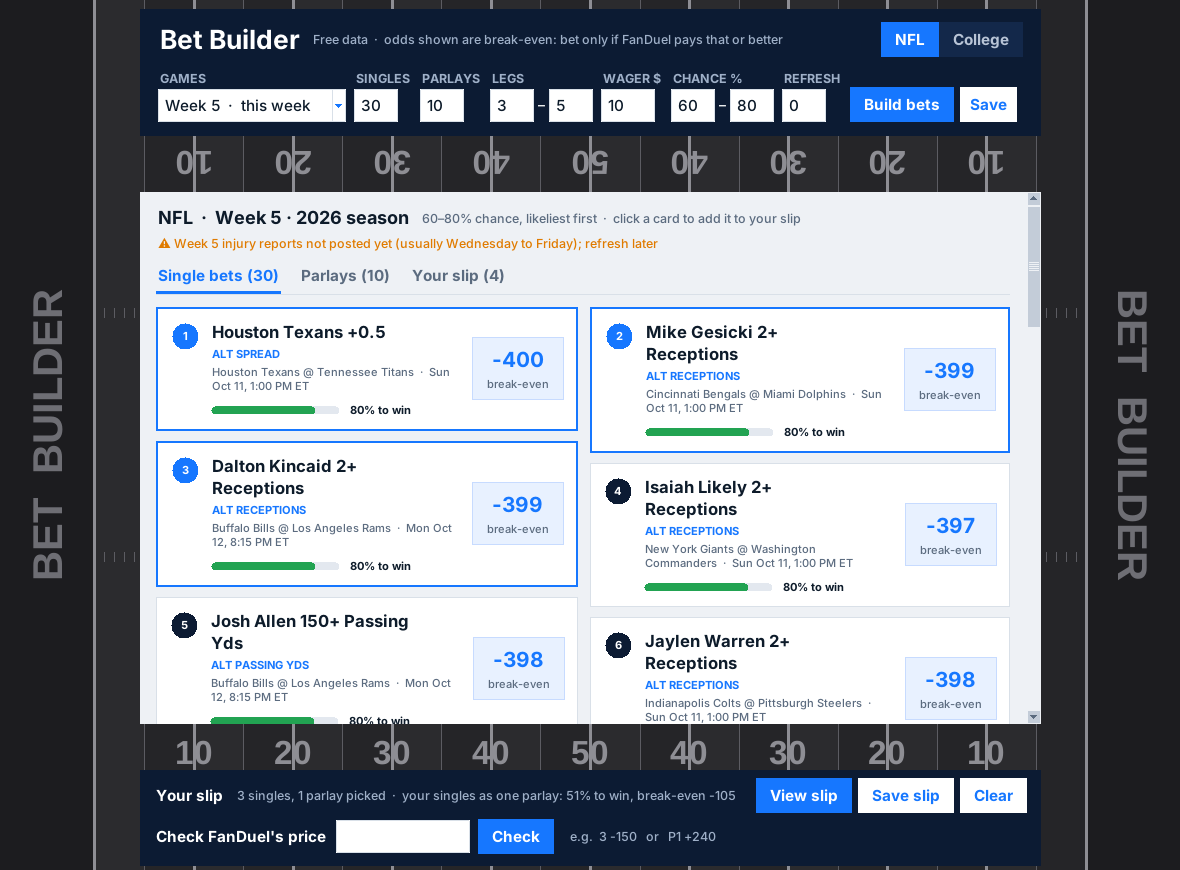
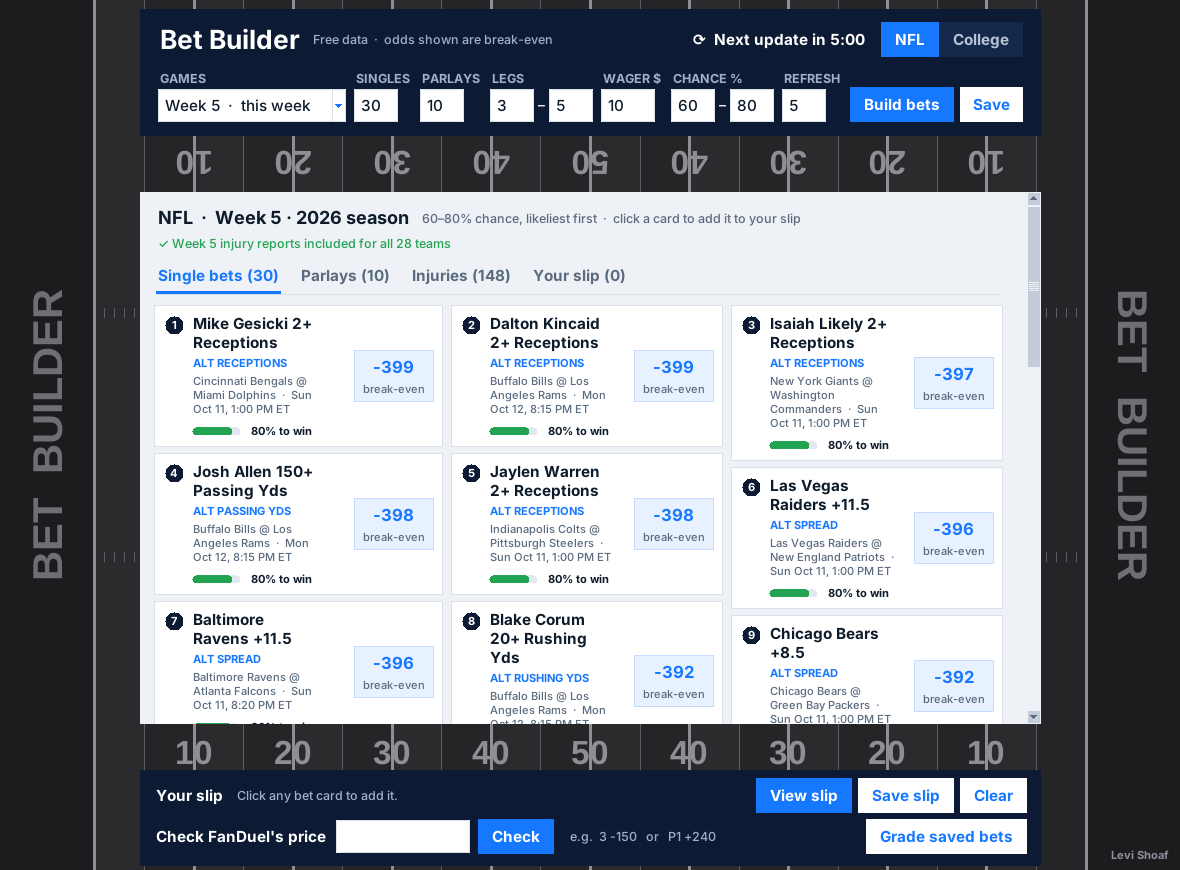
Smaller bet cards: three across in the app, four across on the web page
Claude-Session: https://claude.ai/code/session_01FzCvELGmhGBdoQHEqCEwdE

diff --git a/web/template.html b/web/template.html
@@ -68,33 +68,33 @@ main { padding-block: 18px; display: grid; gap: 14px; }
 .watermark { position: absolute; top: 4px; right: 10px; font-size: 11px; font-weight: 600; letter-spacing: .06em; text-transform: uppercase; color: var(--mark); pointer-events: none; user-select: none; }
 .notice { background: rgba(12, 27, 51, .85); border: 1px solid #2a4170; border-radius: 10px; padding: 10px 14px; color: var(--on-dark); font-size: 14px; }
 .notice strong { color: #fff; }
-.grid { display: grid; grid-template-columns: repeat(auto-fill, minmax(300px, 1fr)); gap: 12px; }
+.grid { display: grid; grid-template-columns: repeat(auto-fill, minmax(230px, 1fr)); gap: 8px; }
 
-.card { background: var(--card); color: var(--ink); border-radius: 12px; padding: 14px; display: grid; gap: 10px; cursor: pointer; border: 2px solid transparent; text-align: left; width: 100%; min-width: 0; }
+.card { background: var(--card); color: var(--ink); border-radius: 10px; padding: 9px 10px; display: grid; gap: 6px; cursor: pointer; border: 2px solid transparent; text-align: left; width: 100%; min-width: 0; }
 .card:hover { border-color: #bcd4ff; }
 .card.on { border-color: var(--blue); box-shadow: 0 0 0 3px rgba(22, 119, 255, .25); }
-.row { display: flex; align-items: flex-start; gap: 10px; }
+.row { display: flex; align-items: flex-start; gap: 8px; }
 .grow { flex: 1; min-width: 0; }
-.rank { font-family: var(--display); font-weight: 700; color: var(--ink-2); font-size: 15px; }
-.mkt { font-size: 11px; font-weight: 700; letter-spacing: .08em; text-transform: uppercase; color: var(--ink-2); }
-.pick { font-weight: 700; font-size: 16px; line-height: 1.25; overflow-wrap: anywhere; }
-.game { color: var(--ink-2); font-size: 13px; overflow-wrap: anywhere; }
-.odds { flex: none; background: var(--blue-soft); color: var(--blue); border-radius: 8px; padding: 6px 10px; text-align: center; min-width: 74px; }
-.odds b { display: block; font-family: var(--display); font-size: 20px; line-height: 1.1; }
-.odds small { font-size: 10px; font-weight: 600; letter-spacing: .05em; text-transform: uppercase; }
+.rank { font-family: var(--display); font-weight: 700; color: var(--ink-2); font-size: 13px; }
+.mkt { font-size: 10px; font-weight: 700; letter-spacing: .08em; text-transform: uppercase; color: var(--ink-2); }
+.pick { font-weight: 700; font-size: 14px; line-height: 1.2; overflow-wrap: anywhere; }
+.game { color: var(--ink-2); font-size: 11.5px; overflow-wrap: anywhere; }
+.odds { flex: none; background: var(--blue-soft); color: var(--blue); border-radius: 7px; padding: 3px 7px; text-align: center; min-width: 58px; }
+.odds b { display: block; font-family: var(--display); font-size: 16px; line-height: 1.1; }
+.odds small { font-size: 9px; font-weight: 600; letter-spacing: .05em; text-transform: uppercase; }
 .card.on .odds { background: var(--blue); color: #fff; }
 .meter { display: flex; align-items: center; gap: 10px; }
-.track { flex: 1; height: 6px; background: var(--line); border-radius: 3px; overflow: hidden; }
+.track { flex: 1; height: 5px; background: var(--line); border-radius: 3px; overflow: hidden; }
 .fill { height: 100%; border-radius: 3px; }
-.pct { font-family: var(--display); font-weight: 800; font-size: 20px; min-width: 46px; text-align: right; }
-.stats { display: grid; grid-template-columns: repeat(3, 1fr); gap: 6px; border-top: 1px solid var(--line); padding-top: 8px; font-size: 12px; color: var(--ink-2); }
-.stats b { display: block; color: var(--ink); font-size: 14px; }
+.pct { font-family: var(--display); font-weight: 800; font-size: 15px; min-width: 36px; text-align: right; }
+.stats { display: grid; grid-template-columns: repeat(3, 1fr); gap: 4px; border-top: 1px solid var(--line); padding-top: 5px; font-size: 10.5px; color: var(--ink-2); }
+.stats b { display: block; color: var(--ink); font-size: 12px; }
 .badge { display: inline-block; font-size: 11px; font-weight: 700; padding: 1px 7px; border-radius: 999px; margin-left: 6px; vertical-align: 2px; }
 .b-q { background: var(--warn-soft); color: var(--warn); }
 .b-dnp { background: var(--bad-soft); color: var(--bad); }
-.legs { display: grid; gap: 8px; margin: 0; padding: 0; list-style: none; }
-.legs li { display: flex; gap: 10px; align-items: baseline; border-left: 3px solid var(--line); padding-left: 10px; }
-.legs .lp { font-weight: 700; font-size: 13px; min-width: 36px; color: var(--ink-2); }
+.legs { display: grid; gap: 5px; margin: 0; padding: 0; list-style: none; }
+.legs li { display: flex; gap: 8px; align-items: baseline; border-left: 3px solid var(--line); padding-left: 8px; }
+.legs .lp { font-weight: 700; font-size: 12px; min-width: 30px; color: var(--ink-2); }
 
 .empty { color: var(--on-dark-2); padding: 18px; border: 1px dashed #555; border-radius: 10px; }
 
@@ -118,7 +118,7 @@ main { padding-block: 18px; display: grid; gap: 14px; }
 .official { font-size: 11px; color: var(--good); font-weight: 700; }
 
 .slip { display: grid; gap: 10px; }
-.slip-item { background: var(--card); color: var(--ink); border-radius: 12px; padding: 12px 14px; display: grid; gap: 8px; }
+.slip-item { background: var(--card); color: var(--ink); border-radius: 10px; padding: 9px 12px; display: grid; gap: 6px; }
 .check { display: flex; flex-wrap: wrap; gap: 8px; align-items: center; font-size: 13px; color: var(--ink-2); }
 .check input { width: 90px; border: 1px solid var(--line); border-radius: 6px; padding: 5px 8px; color: var(--ink); background: #fff; }
 .verdict { font-weight: 700; }
@@ -219,8 +219,8 @@ main { padding-block: 18px; display: grid; gap: 14px; }
     const w = wager();
     return `<div class="stats">
       <div>To win<b>${pct(prob)}</b></div>
-      <div>Payout on ${money(w)}*<b>${money(w / prob)}</b></div>
-      <div>Worth it at<b>${fmtAm(decToAm(1 / prob))} or better</b></div>
+      <div>Payout*<b>${money(w / prob)}</b></div>
+      <div>Worst odds<b>${fmtAm(decToAm(1 / prob))}</b></div>
     </div>`;
   }
   function meter(p) {
@@ -254,7 +254,7 @@ main { padding-block: 18px; display: grid; gap: 14px; }
         <div class="grow"><div class="mkt">Parlay ${i + 1} · ${p.legs.length} legs</div></div>
         <div class="odds"><b>${esc(p.breakeven)}</b><small>break-even</small></div>
       </div>
-      <ul class="legs">${p.legs.map((l) => `<li><span class="lp">${pct(l.prob)}</span><div class="grow"><div class="pick" style="font-size:14px">${esc(l.label)}${badge(l.note)}</div><div class="game">${esc(l.game)} · ${esc(l.when)}</div></div></li>`).join("")}</ul>
+      <ul class="legs">${p.legs.map((l) => `<li><span class="lp">${pct(l.prob)}</span><div class="grow"><div class="pick" style="font-size:12.5px">${esc(l.label)}${badge(l.note)}</div><div class="game">${esc(l.game)} · ${esc(l.when)}</div></div></li>`).join("")}</ul>
       ${meter(p.prob)}
       ${statRow(p.prob)}
     </button>`;
@@ -355,7 +355,7 @@ main { padding-block: 18px; display: grid; gap: 14px; }
     if (state.tab === "parlays") html += wk.parlays.length ? `<div class="grid">${wk.parlays.map(parlayCard).join("")}</div>` : `<div class="empty">Not enough games for a parlay this week.</div>`;
     if (state.tab === "injuries") html += injuriesView(wk);
     if (state.tab === "slip") html += slipView();
-    html += `<p class="foot">*Odds shown are break-even: the worst price still worth taking, from public consensus lines and game logs. They aren't FanDuel's prices, so expected value at these odds is zero. Type FanDuel's actual price into the slip to see the real expected value. Payouts include your stake. Parlay chances assume legs from different games are independent.</p>`;
+    html += `<p class="foot">*Odds shown are break-even: the worst price still worth taking, from public consensus lines and game logs. They aren't FanDuel's prices, so expected value at these odds is zero. Type FanDuel's actual price into the slip to see the real expected value. Payout is what your wager returns at break-even odds, stake included. Worst odds is the lowest price still worth taking. Parlay chances assume legs from different games are independent.</p>`;
     $("main").innerHTML = html;
 
     const c = combo();

diff --git a/bets_gui.py b/bets_gui.py
@@ -29,6 +29,7 @@ from nfl_edge.parlays import Parlay
 
 W, H = 1180, 870
 PANEL_W = W - 2 * W * 0.08 - 90  # leaves turf visible on both sides
+CARD_W = 272  # bet cards, three across
 NUMBER_ROWS = (163, 752)  # yard numbers sit in the gaps between panels
 
 # Field (charcoal)
@@ -124,7 +125,7 @@ def bar(parent, p: float, bg: str, width: int, font) -> tk.Frame:
 
 def odds_button(parent, text: str, caption: str, f_big, f_small, bg=BLUE_SOFT) -> tk.Frame:
     """A sportsbook-style odds box: big price over a small caption."""
-    box = tk.Frame(parent, bg=bg, padx=12, pady=6, highlightbackground="#c7dbff",
+    box = tk.Frame(parent, bg=bg, padx=6, pady=3, highlightbackground="#c7dbff",
                    highlightthickness=1)
     tk.Label(box, text=text, bg=bg, fg=BLUE, font=f_big).pack()
     tk.Label(box, text=caption, bg=bg, fg=MUTED, font=f_small).pack()
@@ -474,7 +475,7 @@ class App:
         cols = []
         for _ in range(n):
             col = tk.Frame(parent, bg=BG)
-            col.pack(side="left", anchor="n", padx=6)
+            col.pack(side="left", anchor="n", padx=4)
             tk.Frame(col, bg=BG, width=width, height=1).pack()
             cols.append(col)
         return cols
@@ -484,18 +485,18 @@ class App:
             tk.Label(parent, text="None found. Try a wider chance range or another week.", bg=BG,
                      fg=TEXT, font=self.f["body"]).pack(anchor="w", padx=6, pady=8)
             return
-        cols = self.columns(parent)
+        cols = self.columns(parent, 3, CARD_W)
         for i, b in enumerate(singles, 1):
-            self.single_card(cols[(i - 1) % 2], i, b, previous)
+            self.single_card(cols[(i - 1) % 3], i, b, previous)
 
     def parlays_tab(self, parent, parlays, stake) -> None:
         if not parlays:
             tk.Label(parent, text="Not enough games for these parlays this week.", bg=BG,
                      fg=TEXT, font=self.f["body"]).pack(anchor="w", padx=6, pady=8)
             return
-        cols = self.columns(parent)
+        cols = self.columns(parent, 3, CARD_W)
         for i, p in enumerate(parlays, 1):
-            self.parlay_card(cols[(i - 1) % 2], i, p, stake)
+            self.parlay_card(cols[(i - 1) % 3], i, p, stake)
 
     def injuries_tab(self, parent) -> None:
         week, players, note = self.injuries
@@ -576,25 +577,25 @@ class App:
 
     def card(self, parent) -> tk.Frame:
         frame = tk.Frame(parent, bg=CARD, highlightbackground=BORDER, highlightthickness=1)
-        frame.pack(fill="x", pady=5)
+        frame.pack(fill="x", pady=3)
         return frame
 
     def single_card(self, parent, i: int, b, previous, stake: float | None = None) -> None:
         card = self.card(parent)
-        badge = tk.Canvas(card, width=30, height=30, bg=CARD, highlightthickness=0)
-        oval = badge.create_oval(2, 2, 28, 28, fill=NAVY, outline="")
-        badge.create_text(15, 15, text=str(i), fill=WHITE, font=self.f["tinyb"])
-        badge.pack(side="left", anchor="n", padx=(12, 4), pady=12)
+        badge = tk.Canvas(card, width=22, height=22, bg=CARD, highlightthickness=0)
+        oval = badge.create_oval(2, 2, 20, 20, fill=NAVY, outline="")
+        badge.create_text(11, 11, text=str(i), fill=WHITE, font=self.f["tinyb"])
+        badge.pack(side="left", anchor="n", padx=(8, 2), pady=8)
 
         odds_button(card, _fmt_american(decimal_to_american(1 / b.fair_prob)), "break-even",
-                    self.f["odds"], self.f["tiny"]).pack(side="right", padx=12, pady=12)
+                    self.f["pick"], self.f["tiny"]).pack(side="right", padx=8, pady=8)
 
         mid = tk.Frame(card, bg=CARD)
-        mid.pack(side="left", fill="both", expand=True, padx=6, pady=10)
+        mid.pack(side="left", fill="both", expand=True, padx=4, pady=6)
         top = tk.Frame(mid, bg=CARD)
         top.pack(fill="x")
-        tk.Label(top, text=_slip_selection(b), bg=CARD, fg=TEXT, font=self.f["pick"],
-                 wraplength=220, justify="left").pack(side="left")
+        tk.Label(top, text=_slip_selection(b), bg=CARD, fg=TEXT, font=self.f["bold"],
+                 wraplength=122, justify="left").pack(side="left")
         old = previous.get(bets.label(b)) if previous else None
         if previous and old is None:
             tk.Label(top, text=" NEW ", bg=NEW_BADGE, fg=WHITE, font=self.f["tinyb"]).pack(
@@ -610,9 +611,9 @@ class App:
         meta = f"{b.game}  ·  {_slip_time(b)}"
         if b.priced:
             meta += f"  ·  consensus {_fmt_american(b.fd_price)}"
-        tk.Label(mid, text=meta, bg=CARD, fg=MUTED, font=self.f["tiny"], wraplength=240,
+        tk.Label(mid, text=meta, bg=CARD, fg=MUTED, font=self.f["tiny"], wraplength=124,
                  justify="left").pack(anchor="w")
-        bar(mid, b.fair_prob, CARD, 130, self.f["tinyb"]).pack(anchor="w", pady=(6, 0))
+        bar(mid, b.fair_prob, CARD, 50, self.f["tinyb"]).pack(anchor="w", pady=(4, 0))
         if stake:
             tk.Label(mid, text=f"${stake:,.2f} wins ${stake / b.fair_prob - stake:,.2f}*",
                      bg=CARD, fg=TEXT, font=self.f["tinyb"]).pack(anchor="w", pady=(4, 0))
@@ -626,16 +627,16 @@ class App:
         head.pack(fill="x")
         title = "Your parlay" if i == "Mine" else f"Parlay P{i}"
         tk.Label(head, text=title, bg=NAVY, fg=WHITE, font=self.f["bold"]).pack(
-            side="left", padx=(12, 4), pady=8)
+            side="left", padx=(10, 4), pady=4)
         tk.Label(head, text=f"{len(p.legs)} legs", bg=NAVY, fg="#9fb0c8",
                  font=self.f["small"]).pack(side="left")
         tk.Label(head, text=f" {_fmt_american(decimal_to_american(1 / p.win_prob))} ", bg=BLUE,
-                 fg=WHITE, font=self.f["bold"]).pack(side="right", padx=10)
+                 fg=WHITE, font=self.f["bold"]).pack(side="right", padx=8)
         for n, b in enumerate(p.legs):
             if n:
-                tk.Frame(card, bg=BORDER, height=1).pack(fill="x", padx=12)
+                tk.Frame(card, bg=BORDER, height=1).pack(fill="x", padx=10)
             leg = tk.Frame(card, bg=CARD)
-            leg.pack(fill="x", padx=12, pady=7)
+            leg.pack(fill="x", padx=10, pady=3)
             tk.Label(leg, text=_fmt_american(decimal_to_american(1 / b.fair_prob)), bg=CARD,
                      fg=BLUE, font=self.f["bold"]).pack(side="right", anchor="n")
             dot = tk.Canvas(leg, width=12, height=12, bg=CARD, highlightthickness=0)
@@ -645,21 +646,21 @@ class App:
             txt.pack(side="left", padx=8)
             name = _slip_selection(b) + {"Questionable": "  (Q)",
                                          "Did not practice": "  (DNP)"}.get(b.note, "")
-            tk.Label(txt, text=name, bg=CARD, fg=TEXT, font=self.f["bold"],
-                     wraplength=280, justify="left").pack(anchor="w")
+            tk.Label(txt, text=name, bg=CARD, fg=TEXT, font=self.f["tinyb"],
+                     wraplength=170, justify="left").pack(anchor="w")
             tk.Label(txt, text=_slip_market(b), bg=CARD, fg=BLUE, font=self.f["tinyb"]).pack(anchor="w")
             tk.Label(txt, text=f"{b.game}  ·  {_slip_time(b)}", bg=CARD, fg=MUTED,
-                     font=self.f["tiny"], wraplength=240, justify="left").pack(anchor="w")
+                     font=self.f["tiny"], wraplength=170, justify="left").pack(anchor="w")
         foot = tk.Frame(card, bg="#f6f8fb")
         foot.pack(fill="x")
         payout = wager / p.win_prob
         for title, value in (("Wager", f"${wager:,.2f}"), ("To win*", f"${payout - wager:,.2f}"),
                              ("Payout*", f"${payout:,.2f}")):
             box = tk.Frame(foot, bg="#f6f8fb")
-            box.pack(side="left", expand=True, pady=8)
+            box.pack(side="left", expand=True, pady=4)
             tk.Label(box, text=title.upper(), bg="#f6f8fb", fg=MUTED, font=self.f["tinyb"]).pack()
-            tk.Label(box, text=value, bg="#f6f8fb", fg=TEXT, font=self.f["pick"]).pack()
-        bar(card, p.win_prob, CARD, 190, self.f["tinyb"]).pack(anchor="w", padx=12, pady=8)
+            tk.Label(box, text=value, bg="#f6f8fb", fg=TEXT, font=self.f["bold"]).pack()
+        bar(card, p.win_prob, CARD, 120, self.f["tinyb"]).pack(anchor="w", padx=10, pady=5)
         if i != "Mine":
             key = tuple(bets.label(b) for b in p.legs)
             self.card_widgets[key] = (card, None, None)
